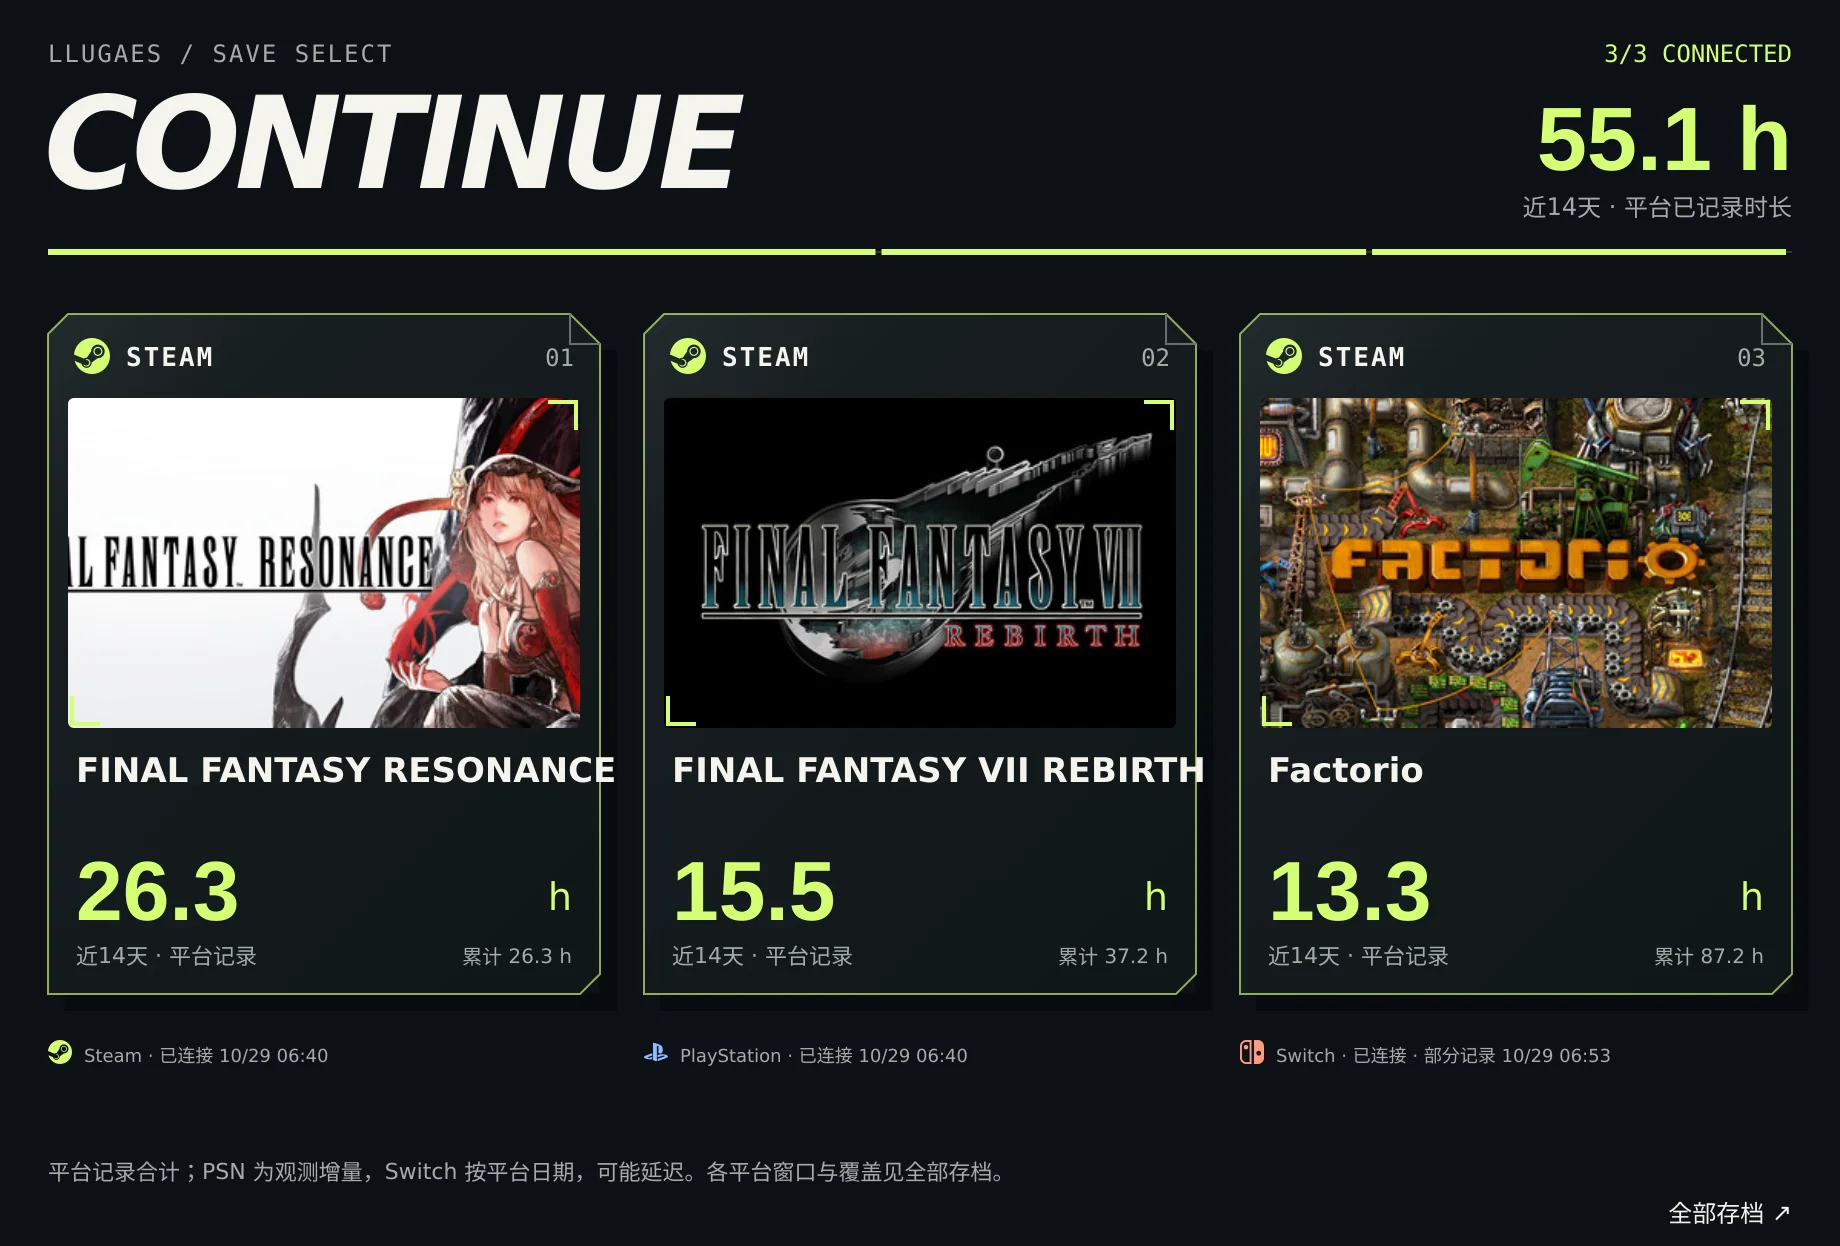
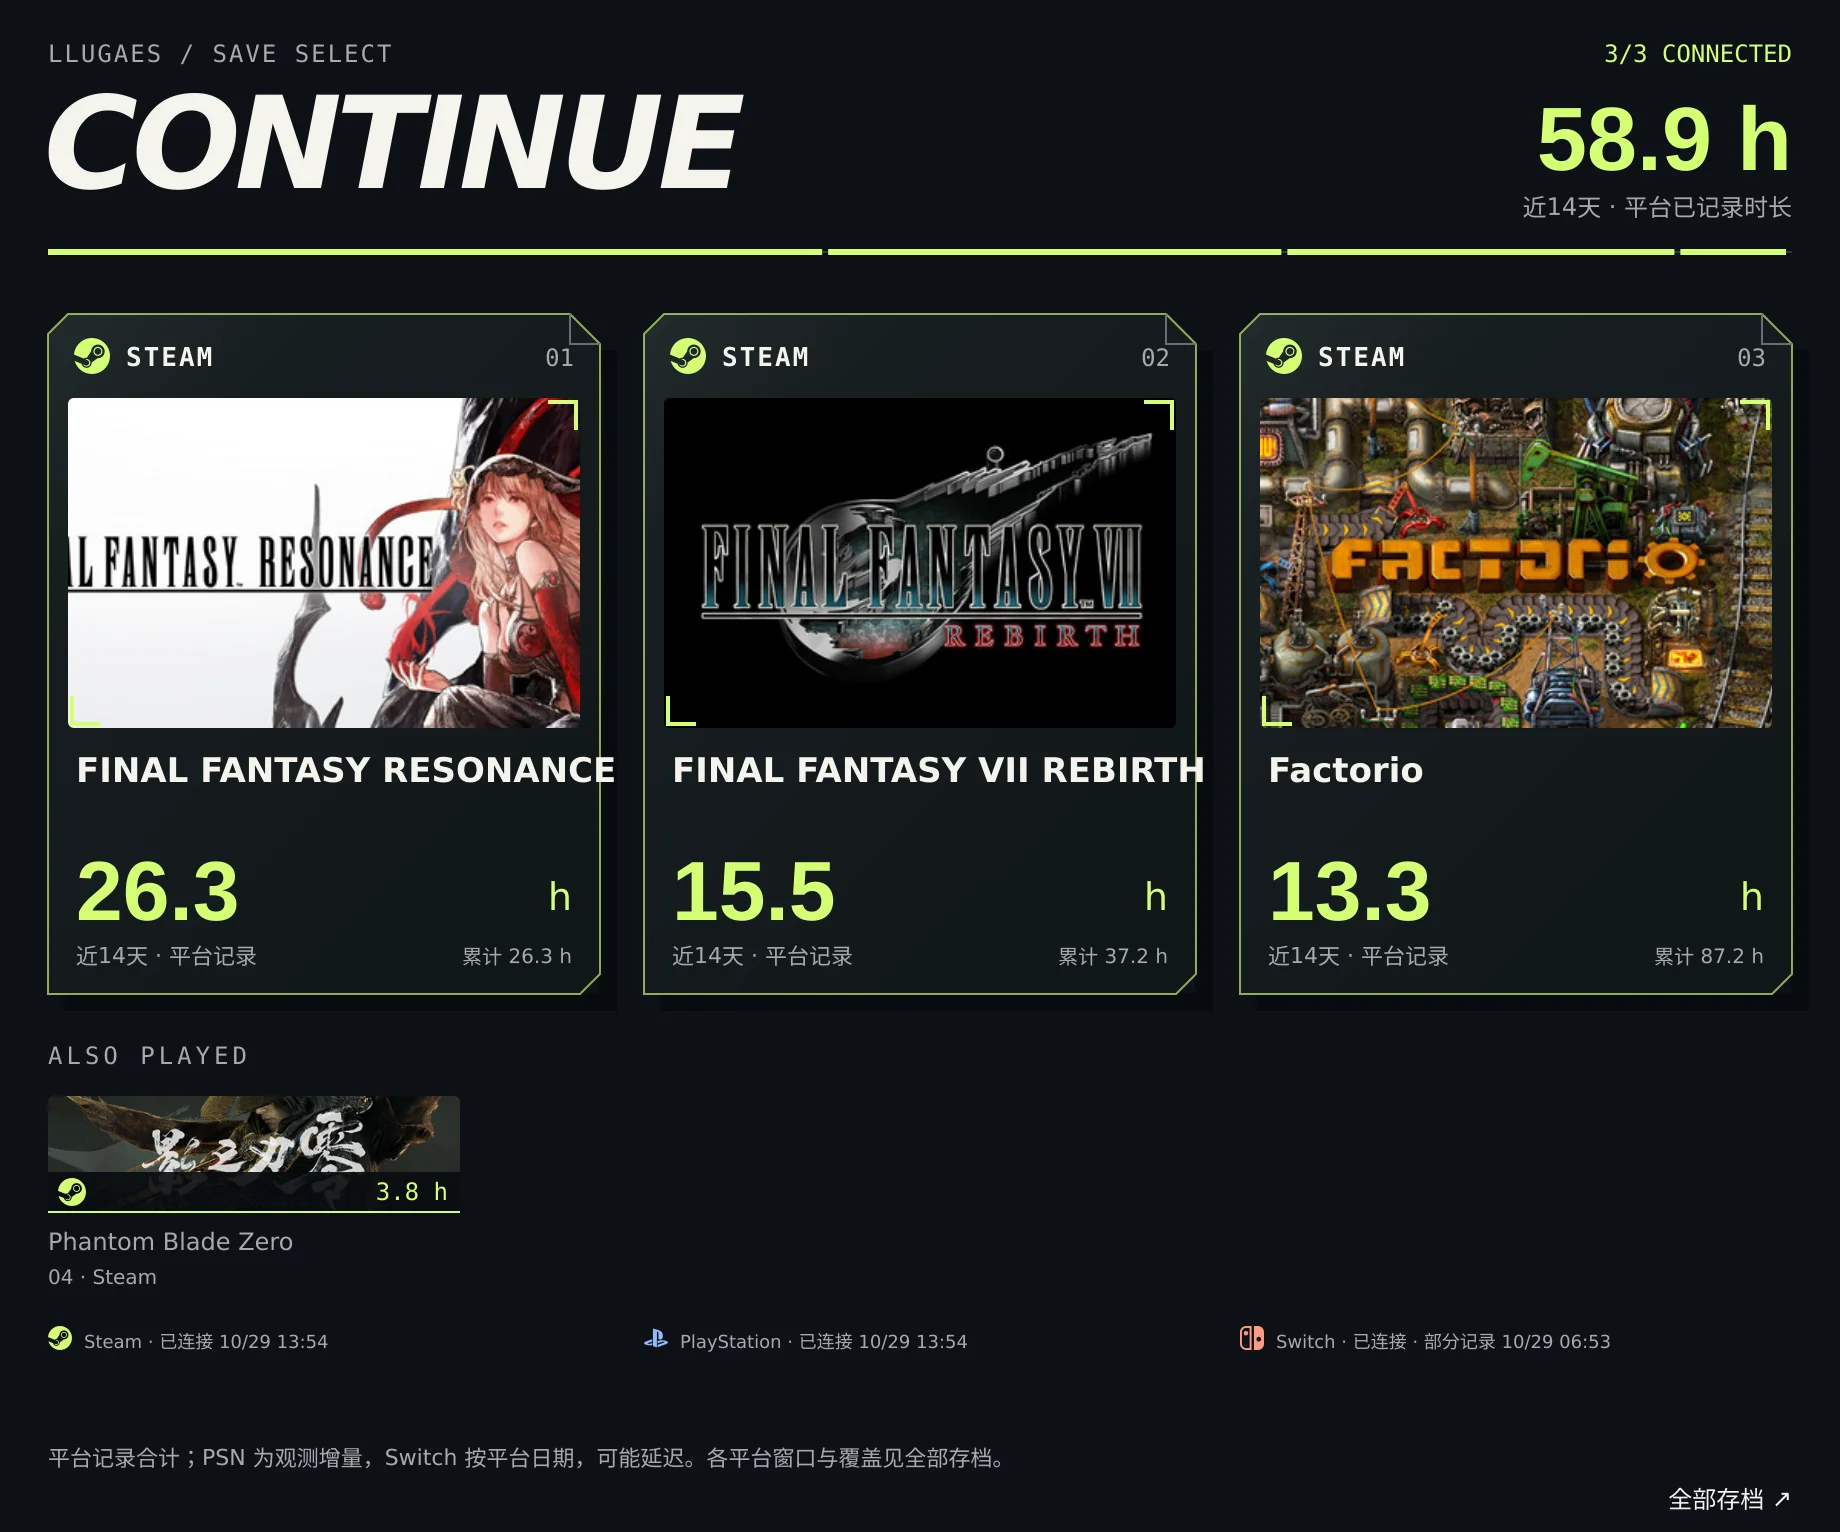
chore: 同步游戏记录

diff --git a/docs/ACTIVITY.md b/docs/ACTIVITY.md
@@ -2,33 +2,35 @@
 
 [返回主页](https://github.com/Llugaes)
 
-近14天平台已记录 **55.1 小时**。此数是各平台游玩记录之和，可能包含同时运行或挂起的游戏，不表示实际在线时间。
+近14天平台已记录 **58.9 小时**。此数是各平台游玩记录之和，可能包含同时运行或挂起的游戏，不表示实际在线时间。
 
-计算时刻：2026-10-28T22:53:26.001Z。Steam 为各自采集时刻结束的原生滚动窗口；PSN 仅包含完整落入近14×24小时的观测区间，边界区间不摊分；Switch 使用 2026-10-16 至 2026-10-29 的平台原日期（显示时区 Asia/Shanghai），可能延迟一天。缺日期不代表已证明零游玩。
+计算时刻：2026-10-29T05:54:35.673Z。Steam 为各自采集时刻结束的原生滚动窗口；PSN 仅包含完整落入近14×24小时的观测区间，边界区间不摊分；Switch 使用 2026-10-16 至 2026-10-29 的平台原日期（显示时区 Asia/Shanghai），可能延迟一天。缺日期不代表已证明零游玩。
 
 | 排名 | 平台 | 游戏 | 已记录小时 | 口径 |
 | ---: | :--- | :--- | ---: | :--- |
 | 1 | Steam | FINAL FANTASY RESONANCE | 26.3 | 平台原生两周 |
 | 2 | Steam | FINAL FANTASY VII REBIRTH | 15.5 | 平台原生两周 |
 | 3 | Steam | Factorio | 13.3 | 平台原生两周 |
+| 4 | Steam | Phantom Blade Zero | 3.8 | 平台原生两周 |
 
 ## Steam
 
-已连接 · 最后成功采集：2026-10-28T22:40:18.398Z
+已连接 · 最后成功采集：2026-10-29T05:54:35.673Z
 
-近期口径：平台原生两周；区间 2026-10-14T22:40:18.398Z → 2026-10-28T22:40:18.398Z；按已返回记录计算。
+近期口径：平台原生两周；区间 2026-10-15T05:54:35.673Z → 2026-10-29T05:54:35.673Z；按已返回记录计算。
 
 | 游戏 | 近期已记录小时 | 累计小时 | 最近游玩 |
 | :--- | ---: | ---: | :--- |
 | FINAL FANTASY RESONANCE | 26.3 | 26.3 | — |
 | FINAL FANTASY VII REBIRTH | 15.5 | 37.2 | — |
 | Factorio | 13.3 | 87.2 | — |
+| Phantom Blade Zero | 3.8 | 3.8 | — |
 
 ## PlayStation
 
-已连接 · 最后成功采集：2026-10-28T22:40:18.398Z
+已连接 · 最后成功采集：2026-10-29T05:54:35.673Z
 
-近期口径：采集区间增量；区间 2026-10-14T22:53:26.001Z → 2026-10-28T22:53:26.001Z；按已返回记录计算。
+近期口径：采集区间增量；区间 2026-10-15T05:54:35.673Z → 2026-10-29T05:54:35.673Z；按已返回记录计算。
 
 首次采集、新游戏、缺失累计值和计数回退会建立新基线；累计值不当作近期值。旧的平台聚合区间仅保留审计，不拆造游戏历史。
 
